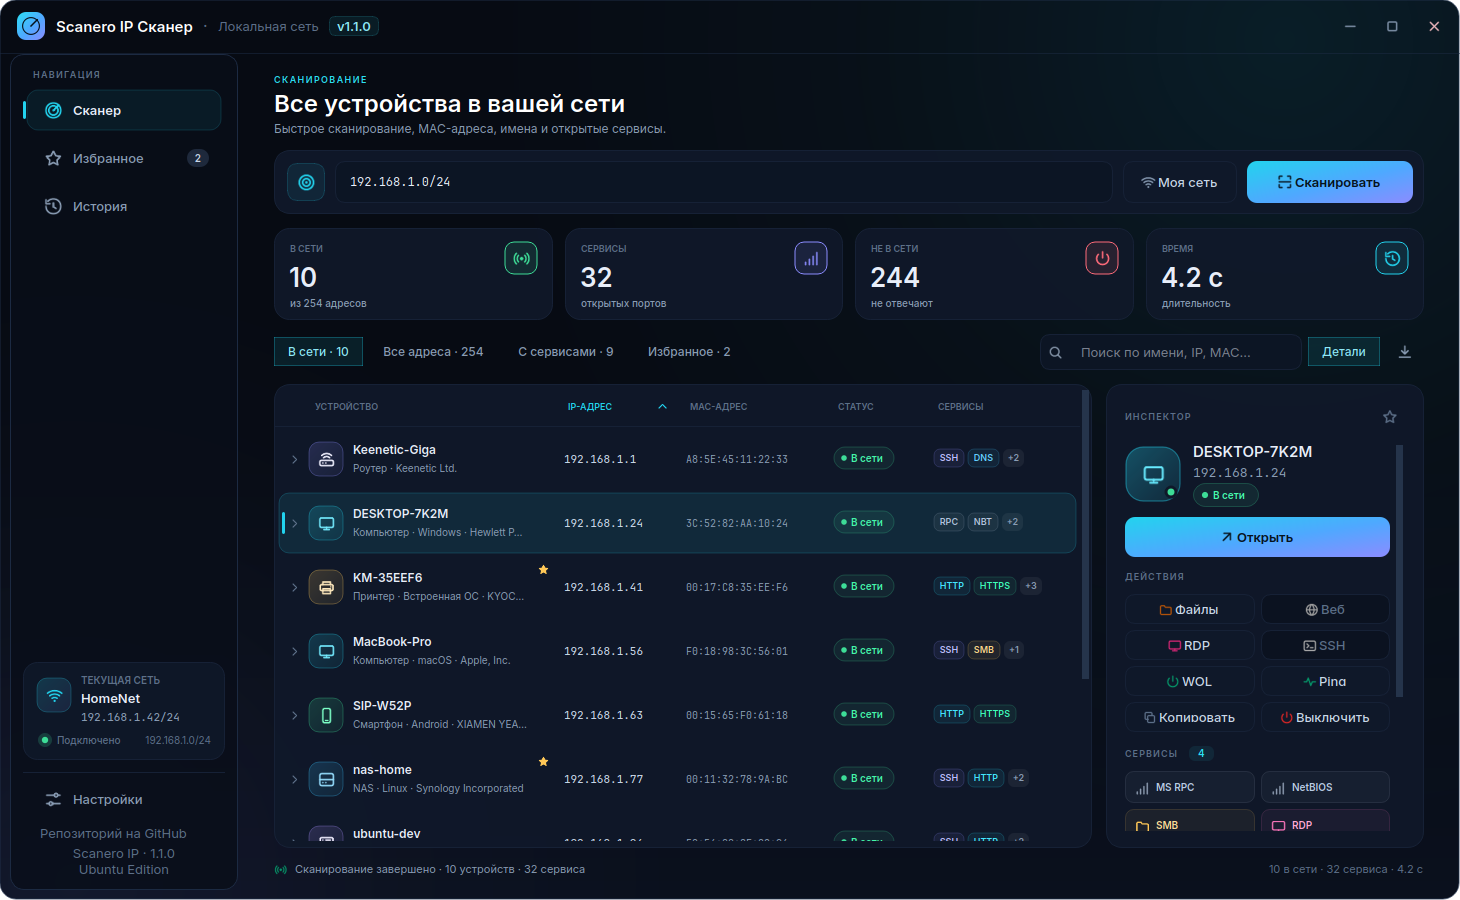
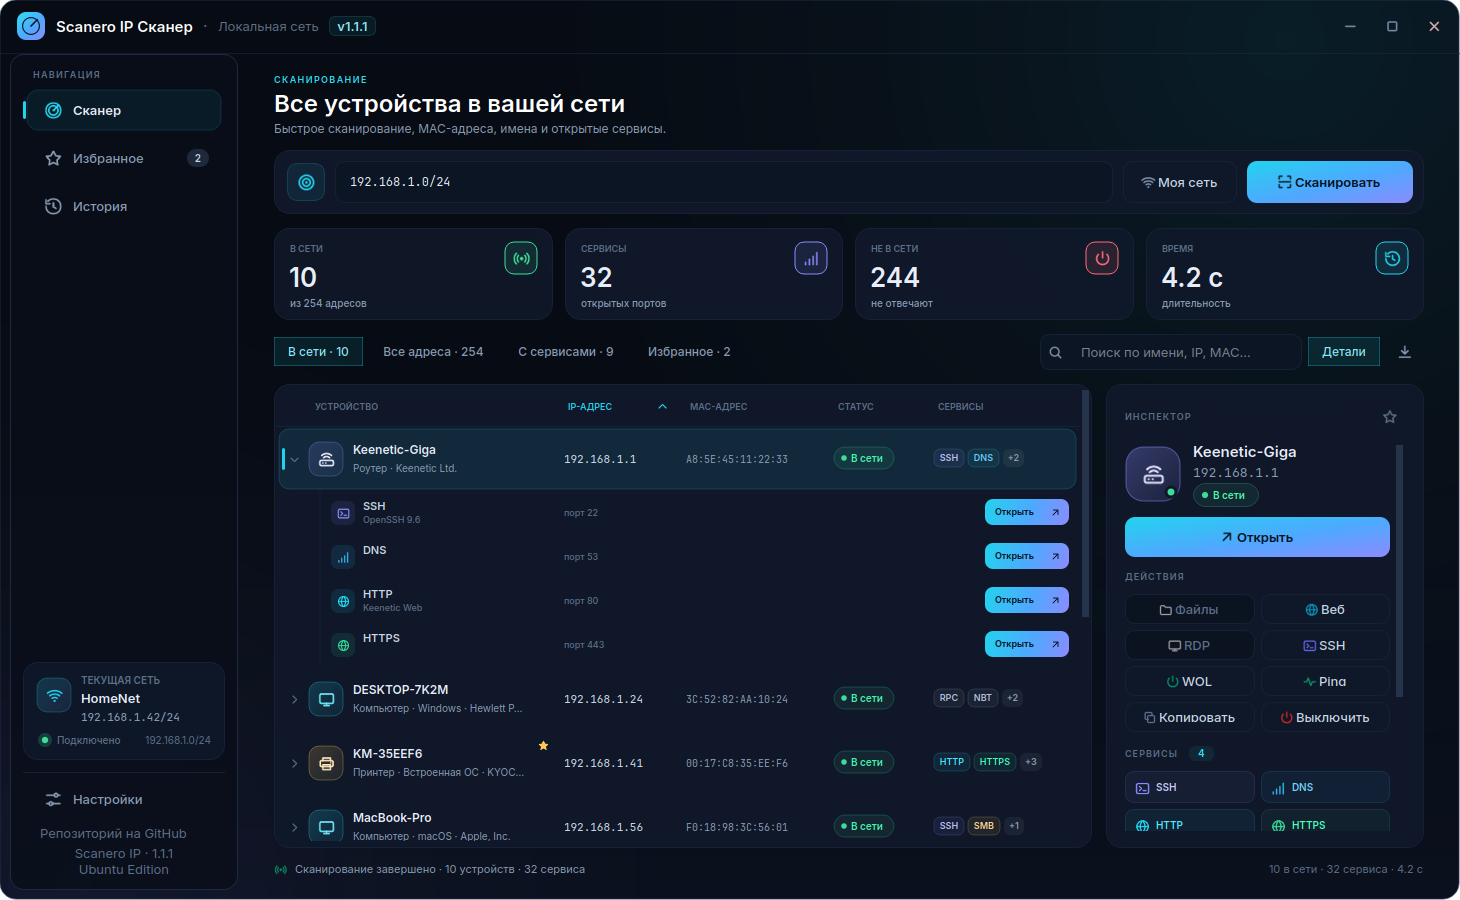
Release 1.1.1: inline service Open buttons and focus fix
- Add gradient Open button to every service row, matching Scan
- Open service resources with a single click; debounce double-clicks
- Stop asynchronous focus retries after first success, so closing
  a terminal no longer steals focus back
- Bump version to 1.1.1 and update screenshots/changelog

diff --git a/scanero/ui/table.py b/scanero/ui/table.py
@@ -2,6 +2,7 @@
 from __future__ import annotations
 
 import ipaddress
+import time
 from typing import Iterable
 
 from PyQt6.QtCore import (
@@ -604,12 +605,25 @@ class DeviceDelegate(QStyledItemDelegate):
                              int(Qt.AlignmentFlag.AlignLeft | Qt.AlignmentFlag.AlignVCenter),
                              f"порт {service.port}")
         elif col == COL_SERVICES:
-            if self.tree.hovered_row == row_rect.top():
-                painter.setFont(self.f_small)
-                painter.setPen(QColor(P.accent))
-                painter.drawText(rect.adjusted(10, 0, -10, 0),
-                                 int(Qt.AlignmentFlag.AlignRight | Qt.AlignmentFlag.AlignVCenter),
-                                 "Открыть  ↗")
+            button = QRectF(rect.right() - 94, row_rect.center().y() - 13, 84, 26)
+            grad = QLinearGradient(button.topLeft(), button.bottomRight())
+            grad.setColorAt(0.0, QColor(P.accent))
+            grad.setColorAt(0.55, QColor(P.logo2))
+            grad.setColorAt(1.0, QColor(P.accent2))
+            painter.setBrush(grad)
+            painter.setPen(Qt.PenStyle.NoPen)
+            painter.drawRoundedRect(button, 8, 8)
+            painter.setFont(font(9.6, QFont.Weight.DemiBold))
+            painter.setPen(QColor(P.primary_text))
+            painter.drawText(
+                QRectF(button.left() + 10, button.top(), 52, button.height()),
+                int(Qt.AlignmentFlag.AlignLeft | Qt.AlignmentFlag.AlignVCenter),
+                "Открыть",
+            )
+            painter.drawPixmap(
+                QRect(int(button.right()) - 20, int(button.top()) + 7, 12, 12),
+                pixmap("arrow-up-right", P.primary_text, 12),
+            )
 
 
 class DeviceTree(QTreeView):
@@ -620,6 +634,8 @@ class DeviceTree(QTreeView):
     def __init__(self, parent: QWidget | None = None) -> None:
         super().__init__(parent)
         self.hovered_row = -1
+        self._last_service_key: tuple[str, int] | None = None
+        self._last_service_time = 0.0
         self.setRootIsDecorated(False)
         self.setIndentation(26)
         self.setUniformRowHeights(False)
@@ -688,16 +704,42 @@ class DeviceTree(QTreeView):
         devices = self.selected_devices()
         self.device_selected.emit(devices[0] if devices else None)
 
+    def _emit_service(self, device: Device, service: Service) -> None:
+        key = (device.ip, service.port)
+        now = time.monotonic()
+        if key == self._last_service_key and now - self._last_service_time < 0.8:
+            return
+        self._last_service_key = key
+        self._last_service_time = now
+        self.service_activated.emit(device, service)
+
     def _on_double_click(self, index: QModelIndex) -> None:
         if index.parent().isValid():
             service_data = index.sibling(index.row(), 0).data(ROLE_SERVICE)
             device = index.parent().data(ROLE_DEVICE)
             if isinstance(service_data, dict) and isinstance(device, Device):
-                self.service_activated.emit(device, Service.from_dict(service_data))
+                self._emit_service(device, Service.from_dict(service_data))
             return
         device = index.data(ROLE_DEVICE)
         if isinstance(device, Device):
             self.device_activated.emit(device)
+
+    def mouseReleaseEvent(self, event) -> None:  # noqa: N802
+        if event.button() == Qt.MouseButton.LeftButton:
+            index = self.indexAt(event.position().toPoint())
+            if (index.isValid() and index.parent().isValid()
+                    and index.column() == COL_SERVICES):
+                rect = self.visualRect(index)
+                button = QRect(rect.right() - 94, rect.top() + (rect.height() - 26) // 2, 84, 26)
+                if button.contains(event.position().toPoint()):
+                    service_data = index.sibling(index.row(), 0).data(ROLE_SERVICE)
+                    device = index.parent().data(ROLE_DEVICE)
+                    if isinstance(service_data, dict) and isinstance(device, Device):
+                        self.setCurrentIndex(index)
+                        self._emit_service(device, Service.from_dict(service_data))
+                    event.accept()
+                    return
+        super().mouseReleaseEvent(event)
 
     def mousePressEvent(self, event) -> None:  # noqa: N802
         index = self.indexAt(event.position().toPoint())

diff --git a/scanero/core/actions.py b/scanero/core/actions.py
@@ -120,15 +120,20 @@ def _focus_after(before: set[str], hints: tuple[str, ...] = ()) -> None:
 
     def worker() -> None:
         last = 0.0
-        # Several attempts handle slow starters such as Chrome/Remmina.
-        for delay in (0.8, 2.0, 3.4):
+        # If a new window is found, focus it once and stop. Otherwise retry and
+        # eventually fall back to an already running handler (browser/file manager).
+        for attempt, delay in enumerate((0.8, 2.0, 3.4)):
             time.sleep(max(0.0, delay - last))
             last = delay
             after = _x11_windows_raw()
             new = sorted(after - before, key=int)
-            targets = new[-2:] if new else _matching_windows_raw(hints)[-2:]
-            for window_id in reversed(targets):
-                _activate_window(window_id)
+            targets = new[-2:]
+            if not targets and attempt >= 1:
+                targets = _matching_windows_raw(hints)[-2:]
+            if targets:
+                for window_id in reversed(targets):
+                    _activate_window(window_id)
+                break
 
     threading.Thread(target=worker, name="scanero-window-focus", daemon=True).start()
 

diff --git a/scanero/ui/pages.py b/scanero/ui/pages.py
@@ -161,6 +161,7 @@ class InspectorPanel(QFrame):
         self.device: Device | None = None
         self._favorite = False
         self._iface: Interface | None = None
+        self._last_open = 0.0
 
         outer = QVBoxLayout(self)
         outer.setContentsMargins(18, 16, 18, 16)
@@ -361,8 +362,14 @@ class InspectorPanel(QFrame):
         self.mini_radar.update()
 
     def _emit_action(self, action: str) -> None:
-        if self.device is not None:
-            self.action_requested.emit(action, self.device)
+        if self.device is None:
+            return
+        if action == "open_primary":
+            now = time.monotonic()
+            if now - self._last_open < 0.8:
+                return
+            self._last_open = now
+        self.action_requested.emit(action, self.device)
 
     def _toggle_favorite(self) -> None:
         if self.device is not None:

diff --git a/app.py b/app.py
@@ -173,7 +173,9 @@ def main(argv: list[str] | None = None) -> int:
             f"{result.services} {plural(result.services, 'сервис', 'сервиса', 'сервисов')}"
         )
         if len(window.scanner.model.devices()) > 5:
-            window.scanner.tree.setCurrentIndex(window.scanner.proxy.index(1, 0))
+            first = window.scanner.proxy.index(0, 0)
+            window.scanner.tree.expand(first)
+            window.scanner.tree.setCurrentIndex(first)
         window._refresh_favorites_ui()
         from scanero.core.netinfo import Interface
         demo_iface = Interface(

diff --git a/scanero/__init__.py b/scanero/__init__.py
@@ -1,6 +1,6 @@
 """Scanero IP scanner — a modern local network scanner for Ubuntu."""
 
-__version__ = "1.1.0"
+__version__ = "1.1.1"
 __app_name__ = "Scanero IP scanner"
 __app_name_ru__ = "Scanero IP Сканер"
 __brand__ = "Scanero"

diff --git a/README.md b/README.md
@@ -3,7 +3,7 @@
 **Scanero IP Сканер** — современный сканер локальной сети для Ubuntu: быстрый, красивый и без установки.
 По возможностям повторяет Advanced IP Scanner, но нативно работает в Linux и не требует root.
 
-**Версия 1.1.0** · Репозиторий: <https://github.com/kostya4000/Scanero-IP-scanner>
+**Версия 1.1.1** · Репозиторий: <https://github.com/kostya4000/Scanero-IP-scanner>
 
 ![Scanero IP scanner](docs/screenshot.png)
 

diff --git a/CHANGELOG.md b/CHANGELOG.md
@@ -1,5 +1,13 @@
 # Changelog
 
+## 1.1.1 — 2026-11-19
+
+- Service rows in the main list now have a visible gradient **Открыть** button
+  (same style as **Сканировать**) that works with one click.
+- Double-clicking that button no longer opens the resource twice.
+- Focus helper stops after the first successful activation, so closing a
+  terminal no longer makes focus jump back to it.
+
 ## 1.1.0 — 2026-11-19
 
 - Added light, dark and system themes with live switching in Settings → Appearance.
